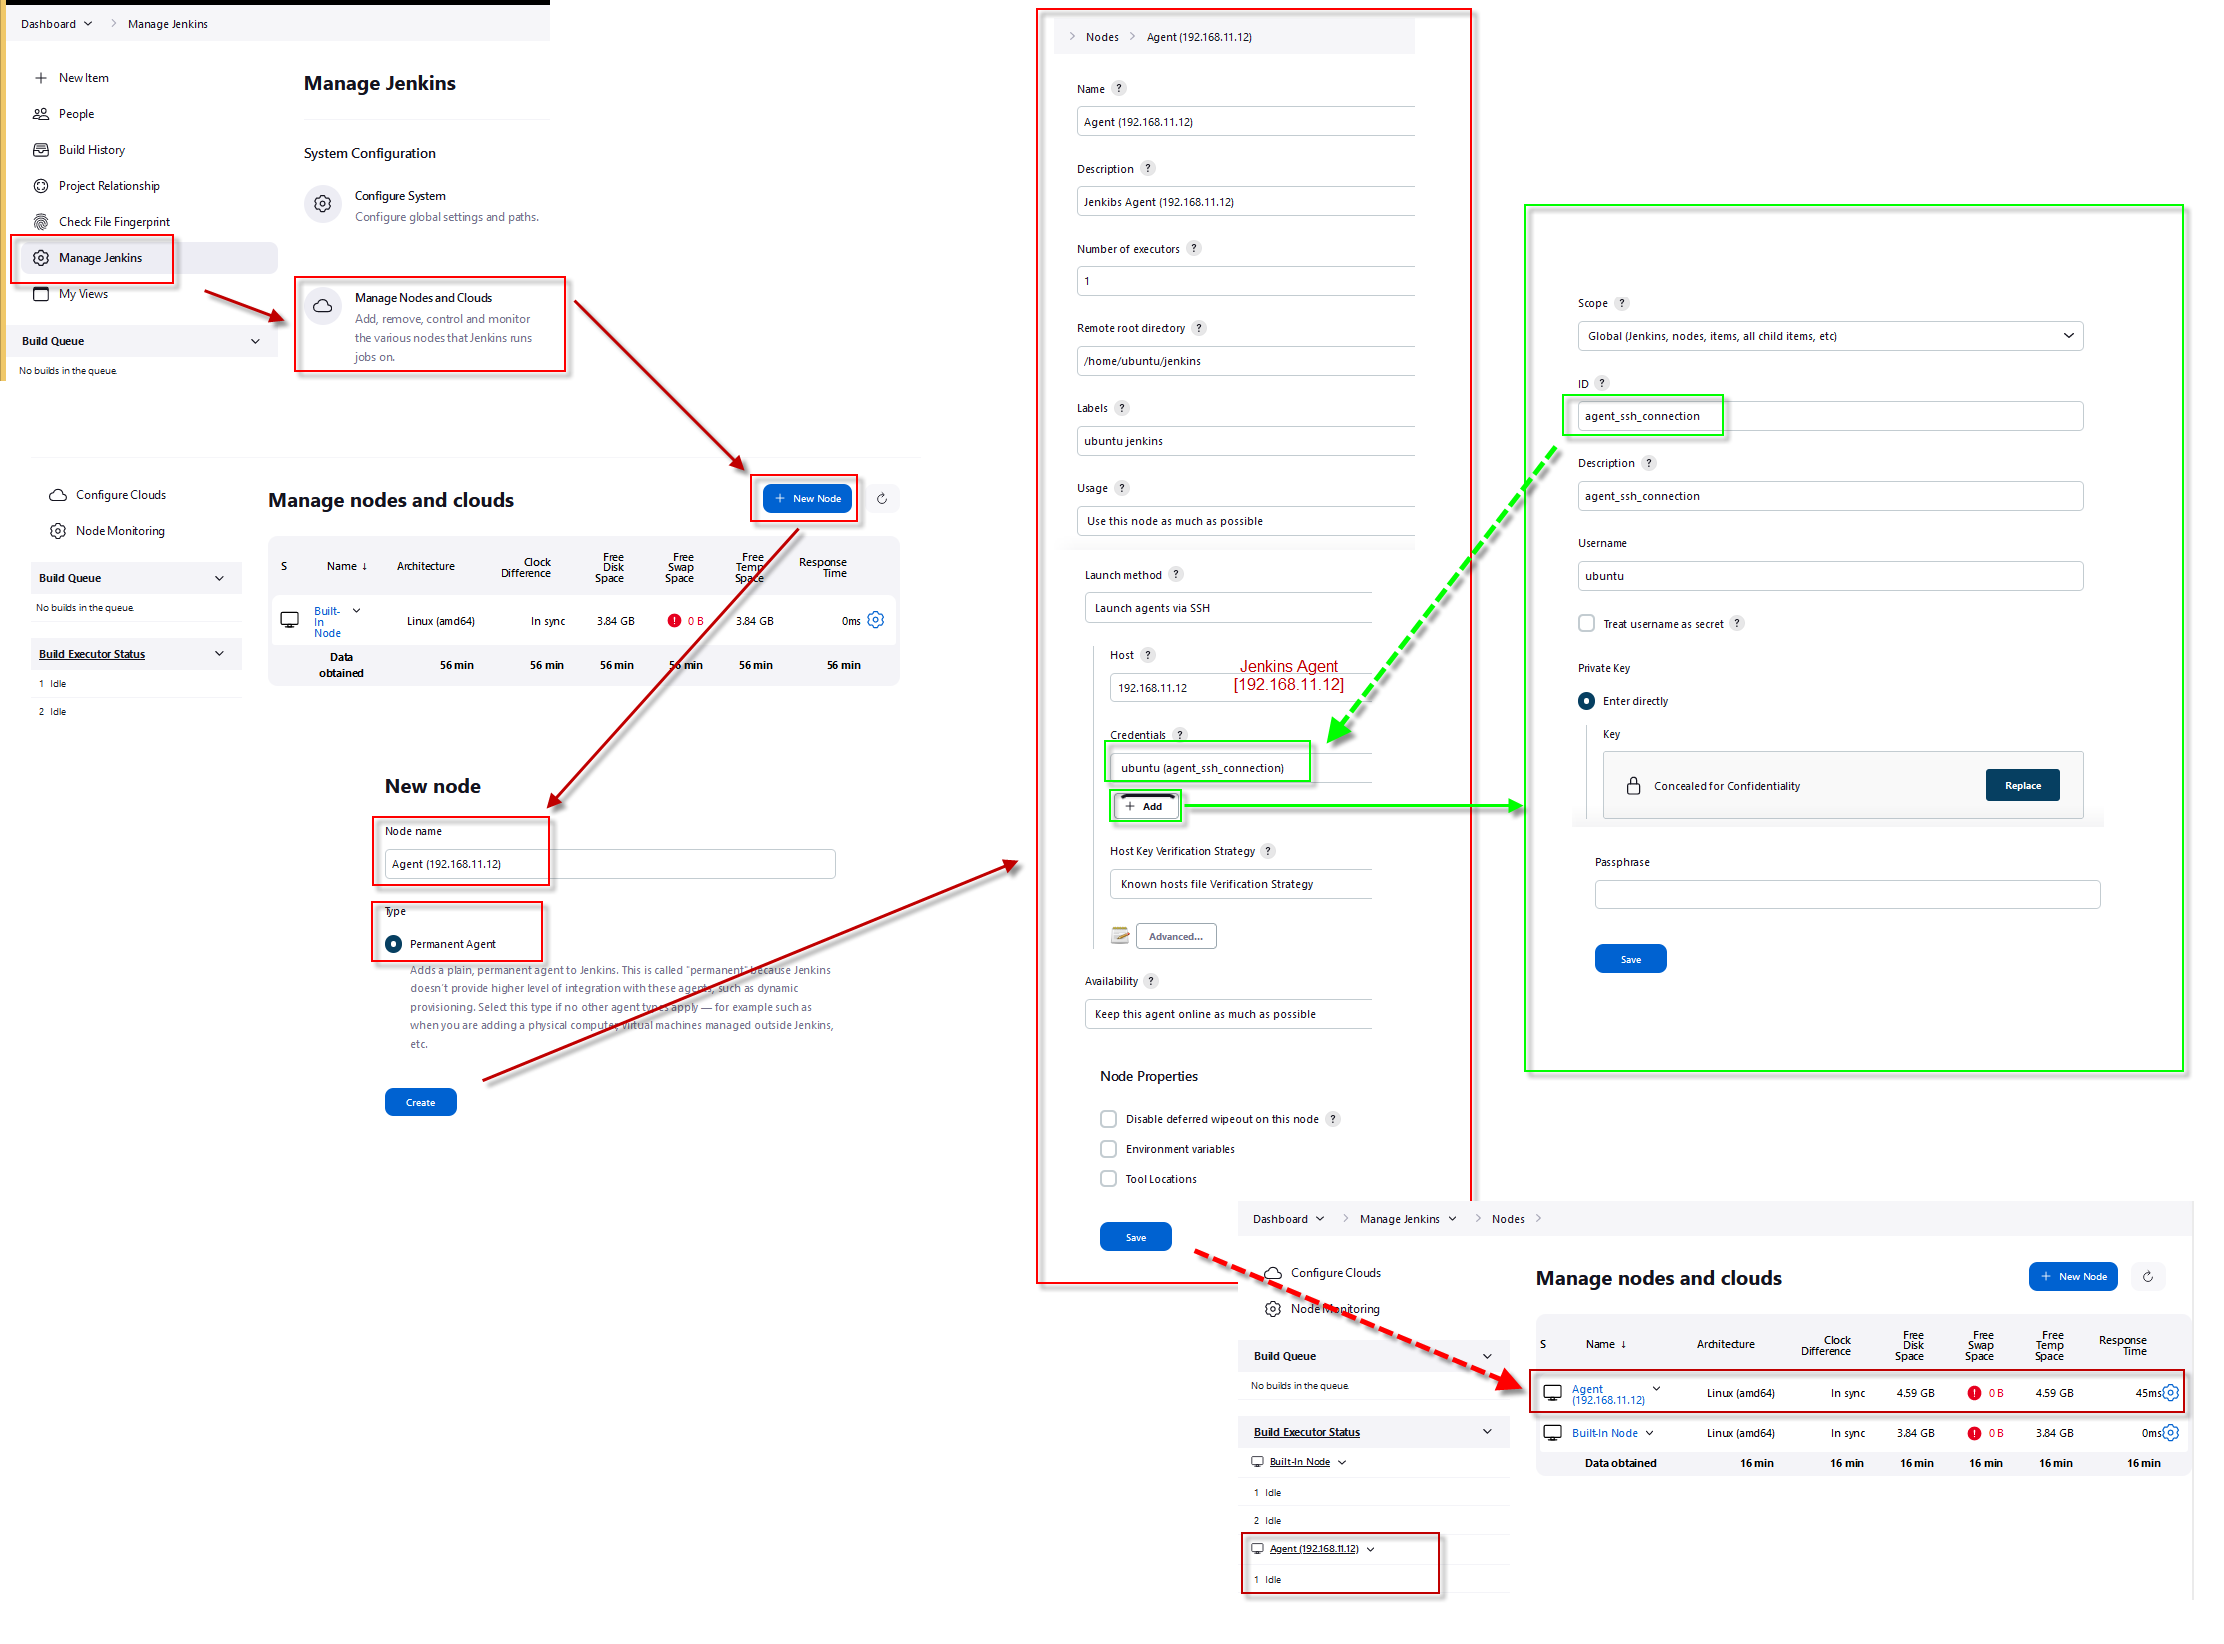
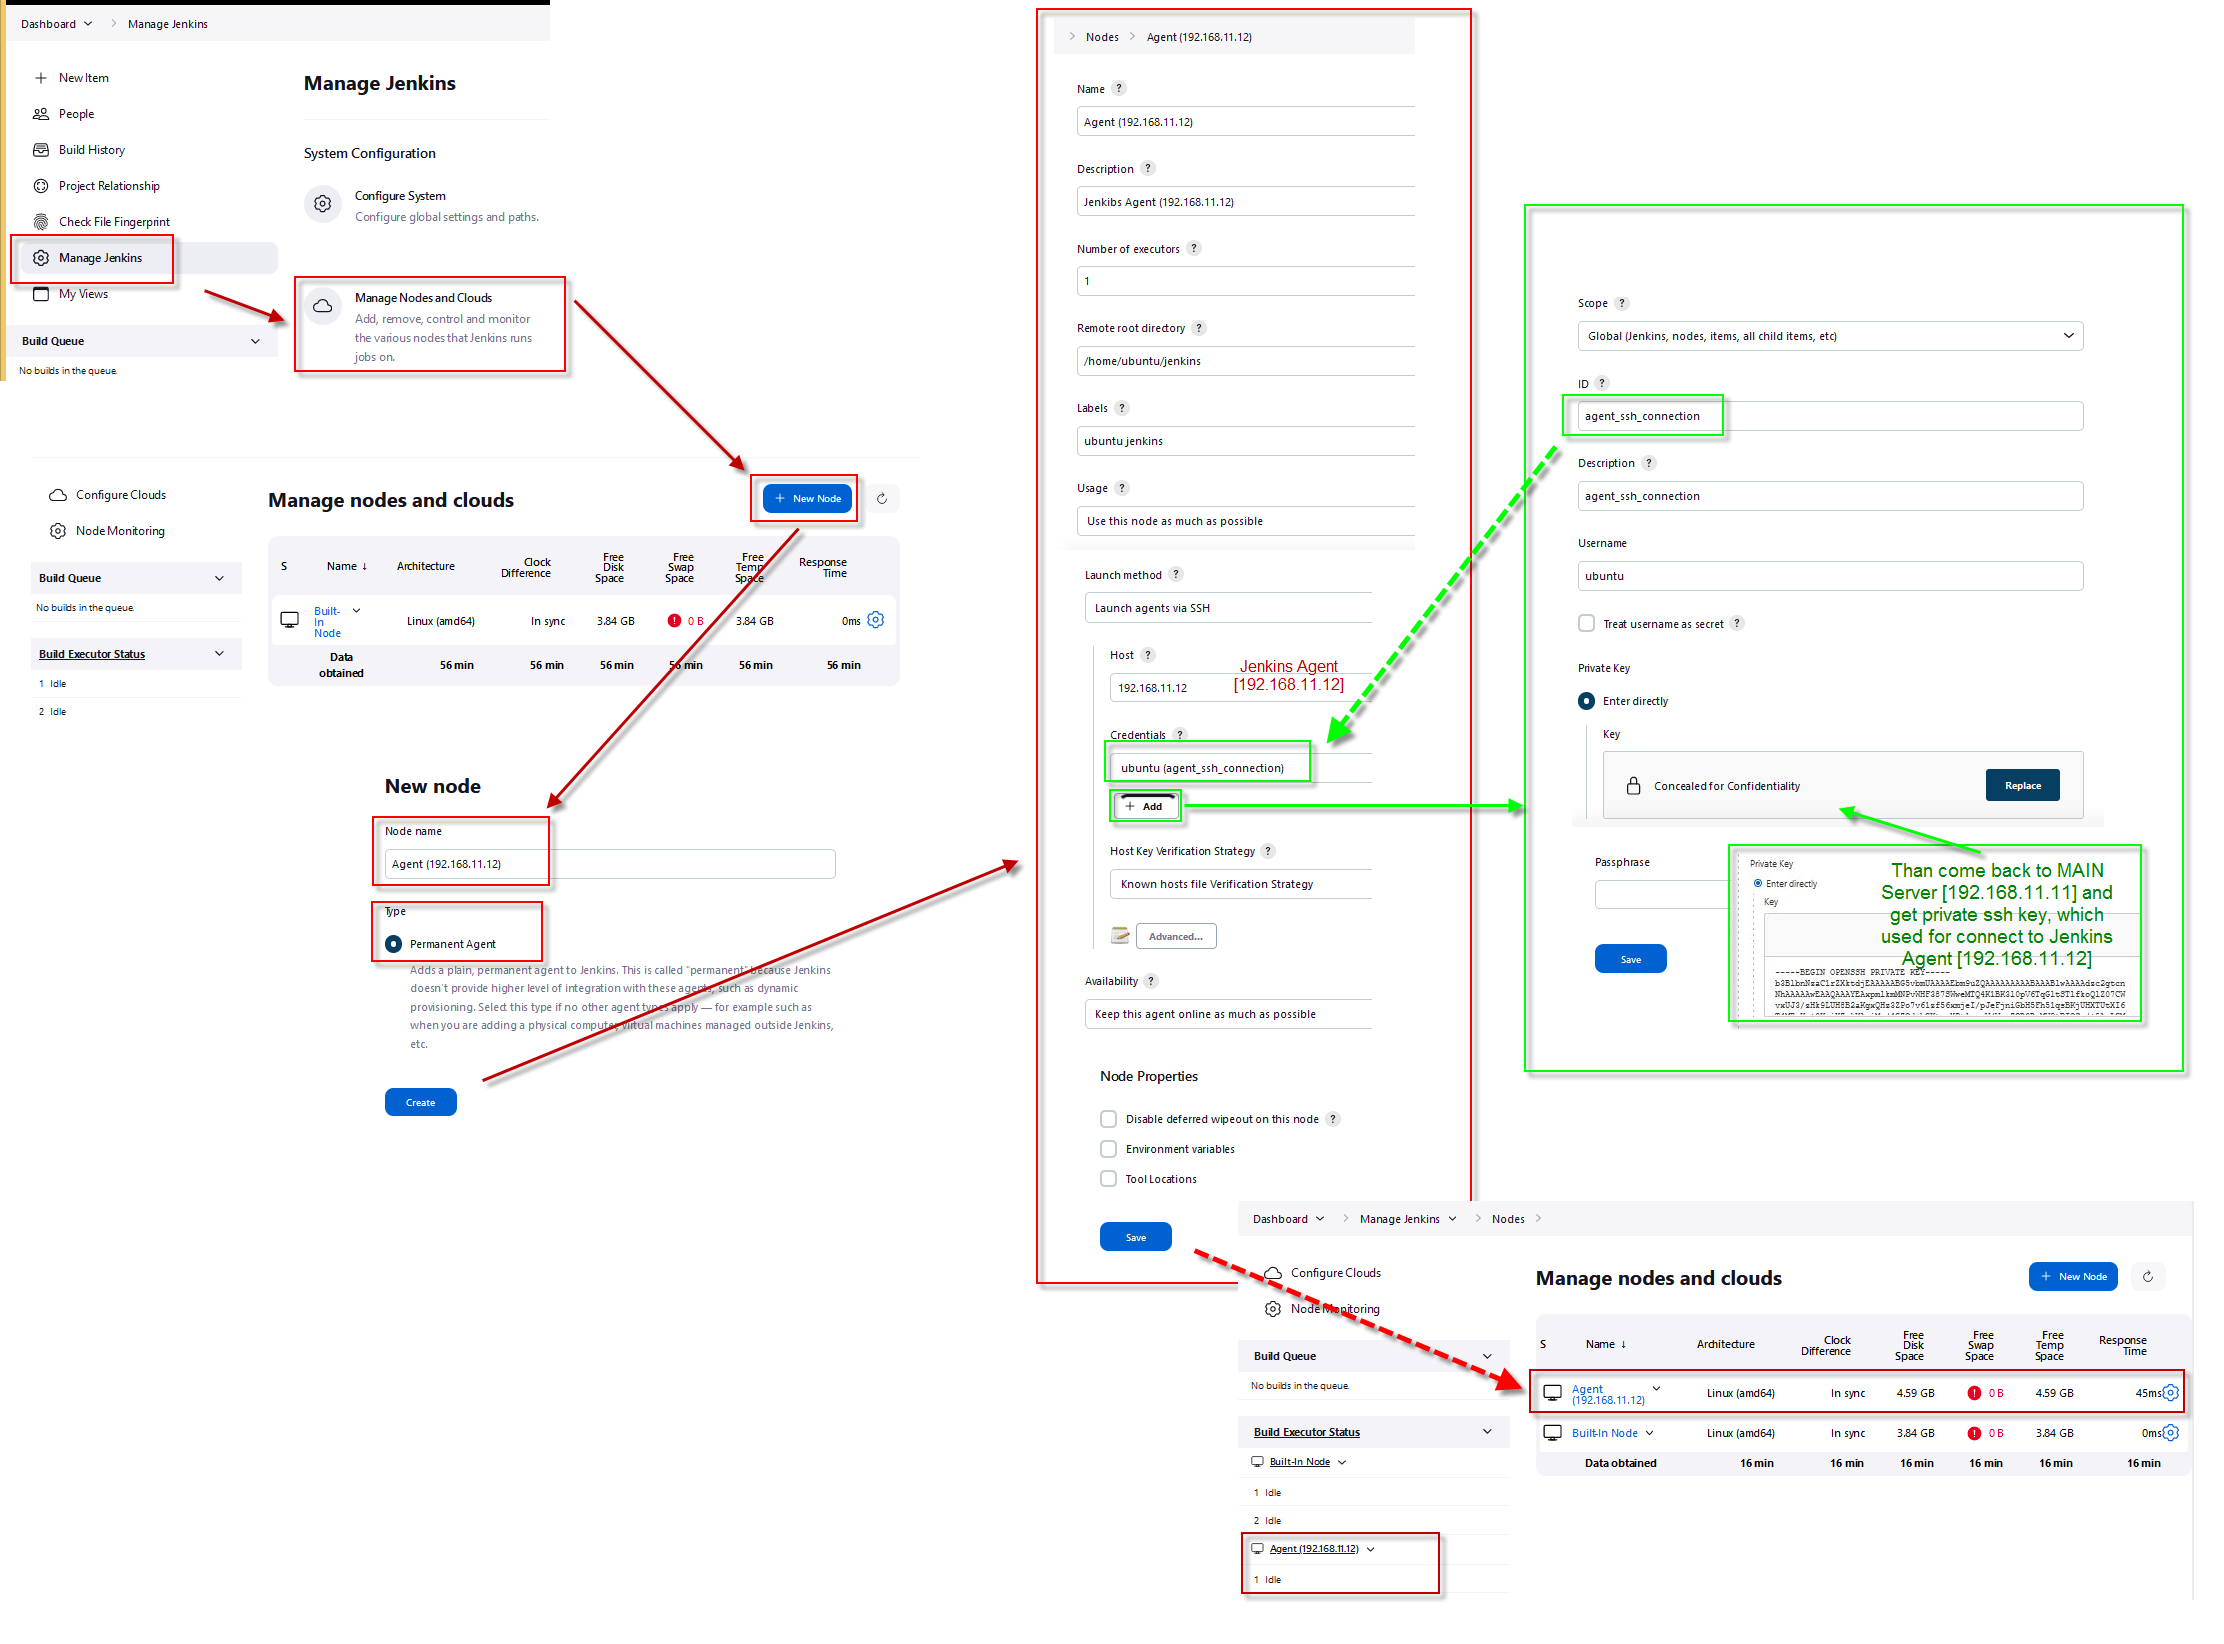
6. Jenkins nodes (agent) v2

Changed region(s): [[0.7756, 0.4964, 0.9618, 0.6515]]

diff --git a/7. Jenkins/README.md b/7. Jenkins/README.md
@@ -321,8 +321,8 @@ sudo apt-get install openjdk-17-jdk -y
 
 java --version
 ```
-Create directory on Agent: `ubuntu@ip-192-168-11-12:~$ mkdir /home/ubuntu/jenkins`
-Come back to MAIN Server [192.168.11.11] and get private ssh key, which used for connect to Jenkins Agent [192.168.11.12]:  
+Create directory on Agent: `ubuntu@ip-192-168-11-12:~$ mkdir /home/ubuntu/jenkins`  
+Than come back to MAIN Server [192.168.11.11] and get private ssh key, which used for connect to Jenkins Agent [192.168.11.12]:  
 `/var/lib/jenkins/.ssh$ sudo cat jenkins_agent`
 
 Jenkins Node Agent is quite easy to configure, we only need to insert the Jenkins workspace directory and the agent’ ip asking to connect with it by using the credentials:
